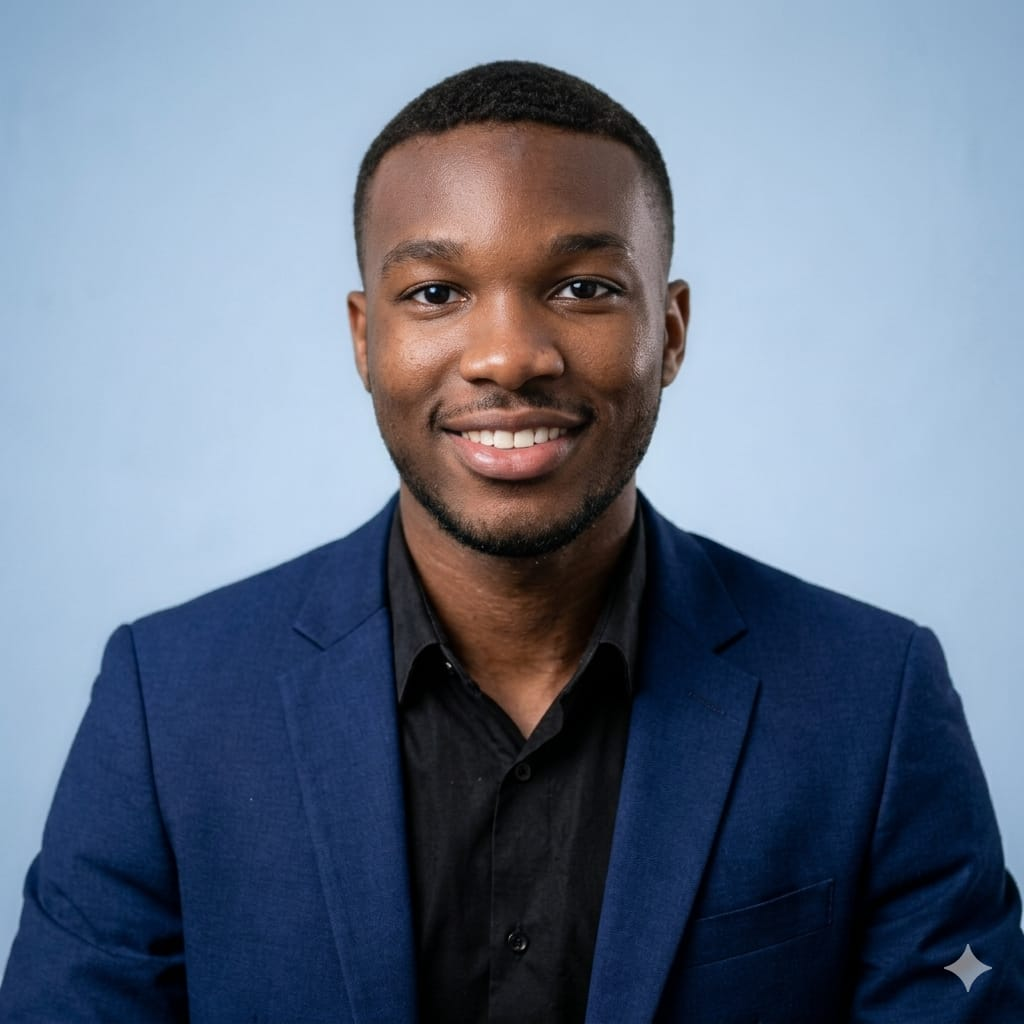
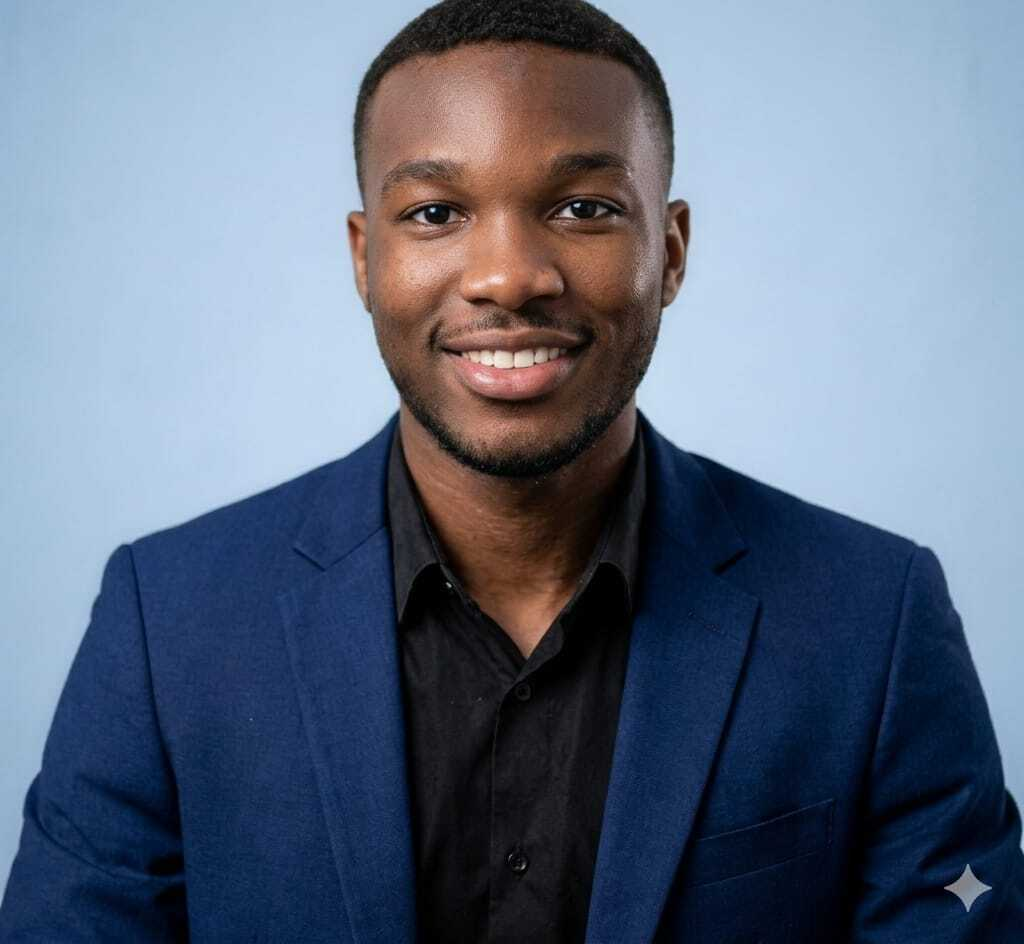
chore(assets): cropping profile photo to remove watermark and updating metadata to v3

diff --git a/src/app/layout.tsx b/src/app/layout.tsx
@@ -18,9 +18,9 @@ export const metadata: Metadata = {
     siteName: 'Sansan Eben-Ezer Portfolio',
     images: [
       {
-        url: 'https://eben-kambou.vercel.app/assets/profile.jpg?v=2',
+        url: 'https://eben-kambou.vercel.app/assets/profile.jpg?v=3',
         width: 1024,
-        height: 1024,
+        height: 944,
         alt: 'Sansan Eben-Ezer KAMBOU Profile',
       },
     ],

diff --git a/src/app/page.tsx b/src/app/page.tsx
@@ -446,3 +446,4 @@ export default function Home() {
 // Revert & Lock Build
 // CV Visible Build
 // Meta Fix Build
+// Cropped Photo Build
